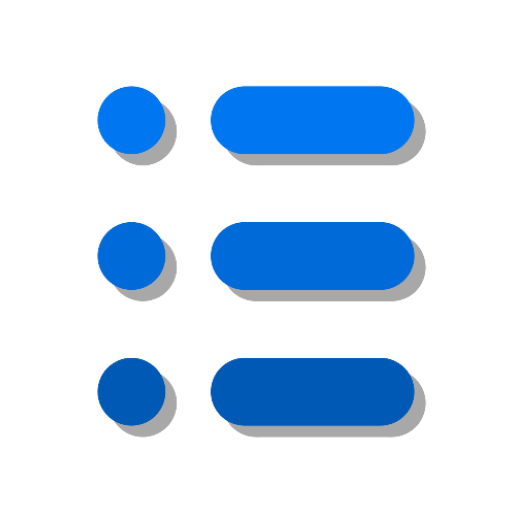
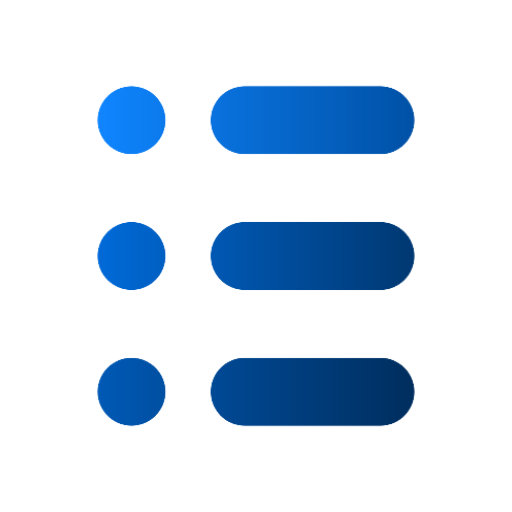
Изменения в интерфейсе, добавление окна предупреждения при редактировании, изменение иконки приложения

diff --git a/app/src/main/java/home/babbakappa/bktl/UI.kt b/app/src/main/java/home/babbakappa/bktl/UI.kt
@@ -6,7 +6,6 @@ package home.babbakappa.bktl
 import android.app.DatePickerDialog
 import android.app.TimePickerDialog
 import android.widget.DatePicker
-import androidx.compose.foundation.background
 import androidx.compose.foundation.clickable
 import androidx.compose.foundation.layout.*
 import androidx.compose.foundation.lazy.LazyColumn
@@ -26,22 +25,15 @@ import java.io.File
 import java.text.SimpleDateFormat
 import java.util.*
 import androidx.compose.foundation.layout.Arrangement
-import androidx.compose.ui.focus.focusModifier
 import androidx.compose.material3.AlertDialog
 import android.content.Intent
-import android.widget.Button
 import android.widget.TimePicker
-import androidx.compose.animation.VectorConverter
 import kotlinx.coroutines.launch
 import androidx.compose.runtime.rememberCoroutineScope
-import androidx.compose.ui.text.font.FontStyle
 import androidx.compose.ui.text.style.TextAlign
 import androidx.compose.material3.Button
 import androidx.compose.material3.ButtonDefaults
 import androidx.compose.material3.Text
-import androidx.compose.ui.composed
-import home.babbakappa.bktl.SetTextColor
-import org.apache.poi.ss.formula.functions.Column
 
 enum class DialogType { ADD, DELETE_ALL, ARCHIVE, EXPORT, EDIT }
 
@@ -475,7 +467,8 @@ fun AddTaskDialog(onDismiss: () -> Unit, onAdd: (String, String, String, String)
         focusedLabelColor = SetTextColor(),        // Цвет текста подсказки при фокусе
         unfocusedLabelColor = SetBGColor(),       // Цвет текста подсказки без фокуса
         focusedTextColor = SetTextColor(),
-        unfocusedTextColor = SetTextColor()
+        unfocusedTextColor = SetTextColor(),
+        cursorColor = SetTextColor()
     )
 
     //Состояния на время диалога
@@ -598,10 +591,11 @@ fun AddTaskDialog(onDismiss: () -> Unit, onAdd: (String, String, String, String)
             title = { Text("Ошибка заполнения", color = SetTextColor()) },
             text = { Text("Пожалуйста, заполните все поля формы перед сохранением.", color = SetTextColor()) },
             confirmButton = {
-                Button(onClick = { showValidationError = false }) {
+                Button(onClick = { showValidationError = false }, colors = ButtonDefaults.buttonColors(containerColor = SetButtonColor())) {
                     Text("ОК", color = SetTextColor())
                 }
-            }
+            },
+            containerColor = SetTopColor()
         )
     }
 }
@@ -667,7 +661,8 @@ fun EditTaskDialog(onDismiss: () -> Unit, onAdd: (String, String, String, String
         focusedLabelColor = SetTextColor(),        // Цвет текста подсказки при фокусе
         unfocusedLabelColor = SetBGColor(),       // Цвет текста подсказки без фокуса
         focusedTextColor = SetTextColor(),
-        unfocusedTextColor = SetTextColor()
+        unfocusedTextColor = SetTextColor(),
+        cursorColor = SetTextColor()
     )
 
     //Основной диалог
@@ -757,6 +752,21 @@ fun EditTaskDialog(onDismiss: () -> Unit, onAdd: (String, String, String, String
                 }
             }
         }
+    }
+
+    //Вывод месседжбокса при вводе пустых данных
+    if (showValidationError) {
+        AlertDialog(
+            onDismissRequest = { showValidationError = false },
+            title = { Text("Ошибка заполнения", color = SetTextColor()) },
+            text = { Text("Пожалуйста, заполните все поля формы перед сохранением.", color = SetTextColor()) },
+            confirmButton = {
+                Button(onClick = { showValidationError = false }, colors = ButtonDefaults.buttonColors(containerColor = SetButtonColor())) {
+                    Text("ОК", color = SetTextColor())
+                }
+            },
+            containerColor = SetTopColor()
+        )
     }
 }
 

diff --git a/app/src/main/java/home/babbakappa/bktl/ToolsForUI.kt b/app/src/main/java/home/babbakappa/bktl/ToolsForUI.kt
@@ -8,16 +8,12 @@ package home.babbakappa.bktl
 import java.time.LocalDate
 import java.time.format.DateTimeFormatter
 import java.time.temporal.ChronoUnit
-import android.content.ContentValues
 import android.content.Context
 import android.net.Uri
-import android.os.Build
-import android.os.Environment
 import androidx.compose.runtime.Composable
 import androidx.core.content.FileProvider
 import kotlinx.coroutines.Dispatchers
 import kotlinx.coroutines.withContext
-import org.apache.poi.ss.usermodel.*
 import org.apache.poi.xssf.usermodel.XSSFWorkbook
 import java.io.File
 import java.io.FileOutputStream
